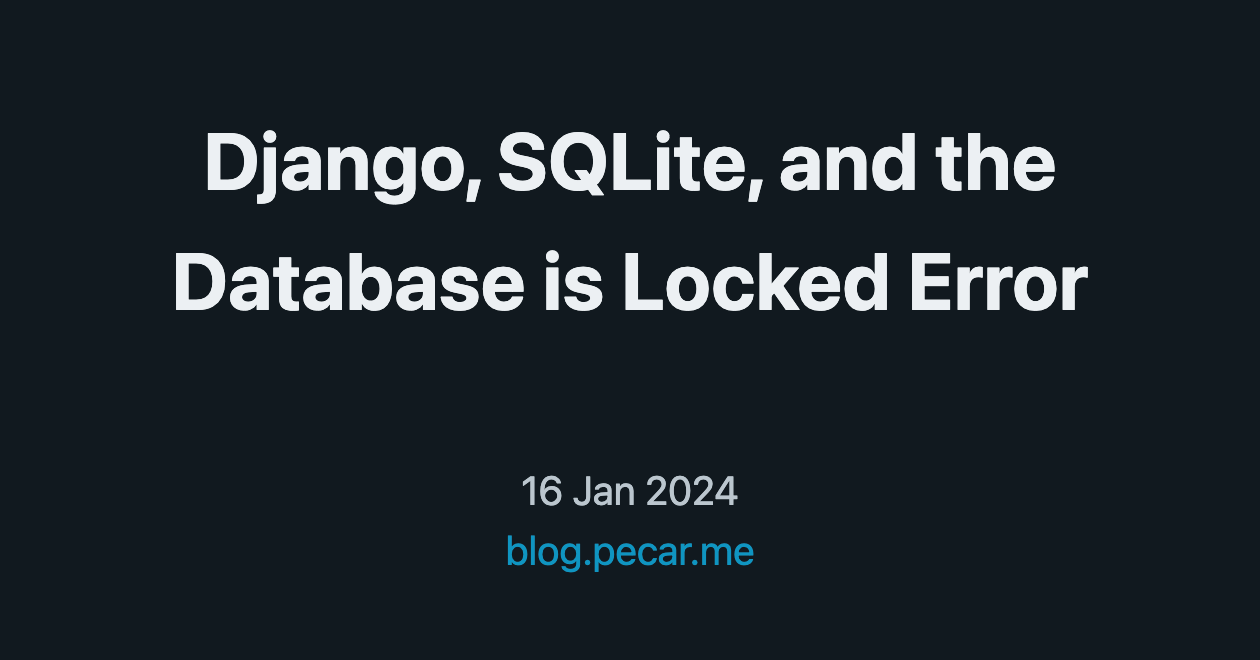
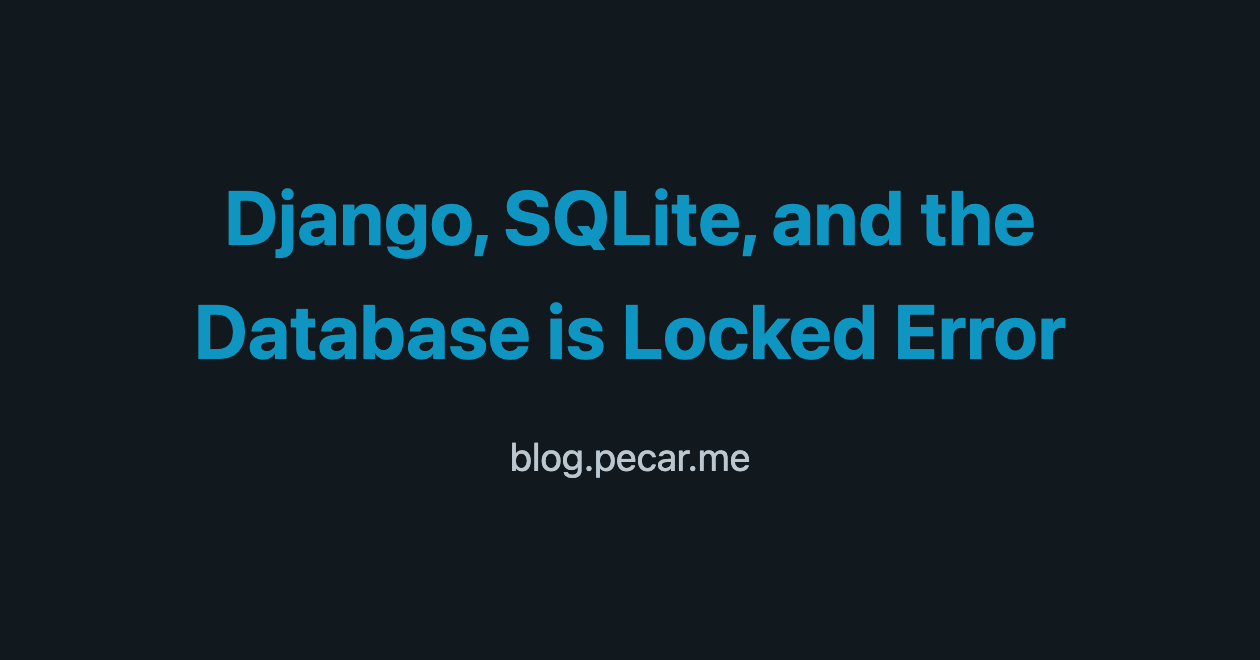
Update card

Changed region(s): [[0.1238, 0.1818, 0.8667, 0.5455], [0.4024, 0.6667, 0.5881, 0.7879], [0.4024, 0.8182, 0.619, 0.8788]]

diff --git a/_layouts/card.html b/_layouts/card.html
@@ -17,9 +17,9 @@
 
   <body>
     <div style="text-align: center; /* border: 1px solid red; */ width: 630px; height: 330px; vertical-align: middle;">
-      <h1 style="padding: 50px 50px 0px 50px">{{ page.title }}</h1>
-      <div>{{ page.date | date_to_string }}</div>
-      <a href="/">blog.pecar.me</a><h1 style="text-decoration: underline;"></h1>
+      <h1 style="padding: 80px 50px 0px 50px; margin-bottom: 20px;"><a href="/">{{ page.title }}</a></h1></h1>
+      <!-- <div>{{ page.date | date_to_string }}</div> -->
+      blog.pecar.me</a><h1 style="text-decoration: underline;"></h1>
   </div>
   </body>
 </html>
